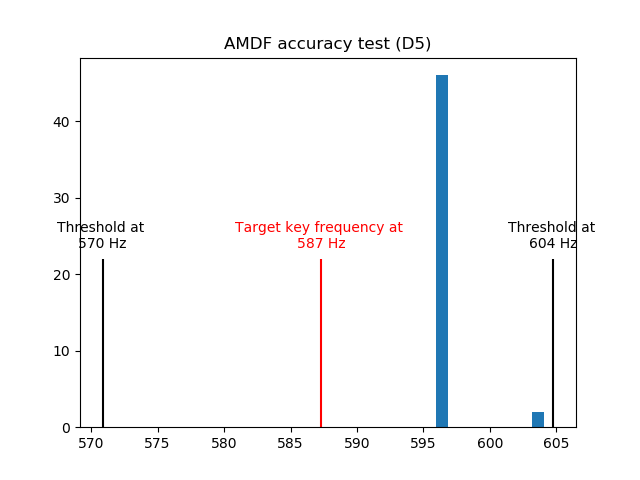
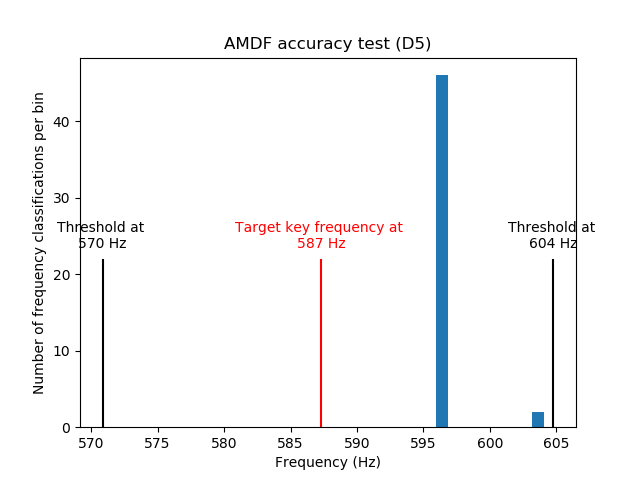
Trying to improve accuracy with pitch instead of freq

diff --git a/Analysis/amdf_accuracy_plot.py b/Analysis/amdf_accuracy_plot.py
@@ -22,20 +22,25 @@ for i in range(len(key_freq_list)-1):
     half_points.append((key_freq_list[i]+key_freq_list[i+1])/2)
 
 
-for i,f_center in enumerate(key_freq_list[1:-1]):
-    print(i)
-    temp_freqs = freqs[i*48:(i+1)*48]
-    plt.hist(temp_freqs, bins = 9)
-    plt.title("AMDF accuracy test ({})".format(key_name_list[i]))
-    plt.vlines(x=[half_points[i], half_points[i+1]], ymin = 0, ymax = 22)
-    plt.text(half_points[i], 25, "Threshold at \n{} Hz".format(int(half_points[i])),
-             horizontalalignment="center",verticalalignment="center", color='k')
-    plt.text(half_points[i+1], 25, "Threshold at \n{} Hz".format(int(half_points[i+1])),
-             horizontalalignment="center",verticalalignment="center",color='k')
-    plt.text(f_center,25, "Target key frequency at \n{} Hz".format(int(f_center)),
-             horizontalalignment="center",verticalalignment="center", color = 'r')
-    plt.vlines(x=f_center, ymin = 0 ,ymax = 22, colors='red')
-    plt.savefig("AMDF_Accuracy_results/key_{}.png".format(key_name_list[i]))
-    plt.close()
+# for i,f_center in enumerate(key_freq_list[1:-1]):
+#     print(i)
+#     temp_freqs = freqs[i*48:(i+1)*48]
+#     plt.hist(temp_freqs, bins = 9)
+#     plt.title("AMDF accuracy test ({})".format(key_name_list[i]))
+#     plt.xlabel("Frequency (Hz)")
+#     plt.ylabel(("Number of frequency classifications per bin"))
+#     plt.vlines(x=[half_points[i], half_points[i+1]], ymin = 0, ymax = 22)
+#     plt.text(half_points[i], 25, "Threshold at \n{} Hz".format(int(half_points[i])),
+#              horizontalalignment="center",verticalalignment="center", color='k')
+#     plt.text(half_points[i+1], 25, "Threshold at \n{} Hz".format(int(half_points[i+1])),
+#              horizontalalignment="center",verticalalignment="center",color='k')
+#     plt.text(f_center,25, "Target key frequency at \n{} Hz".format(int(f_center)),
+#              horizontalalignment="center",verticalalignment="center", color = 'r')
+#     plt.vlines(x=f_center, ymin = 0 ,ymax = 22, colors='red')
+#     plt.savefig("AMDF_Accuracy_results/key_{}.png".format(key_name_list[i]))
+#     plt.close()
     
+plt.plot(freqs)
+for f in key_freq_list[1:-1]:
+    plt.axhline(f, color='r')
 
